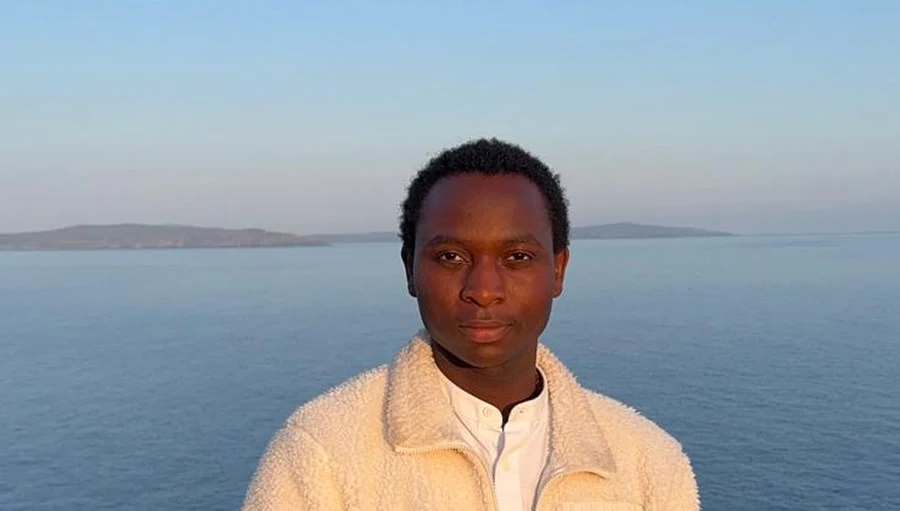
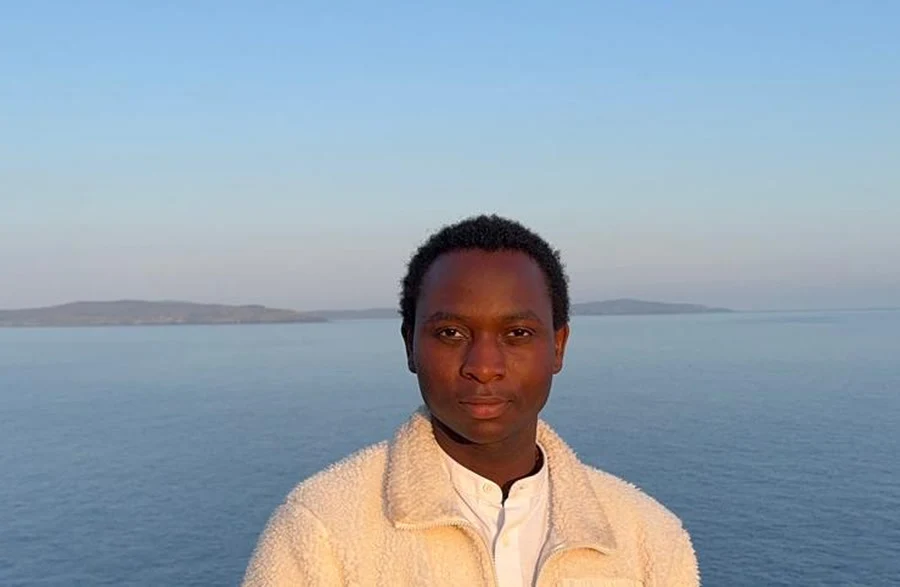
Enlarge mobile View Menu and add hero headroom
Make the menu icon ~15% larger with brighter label text, and uncrop the mobile photo upward so the face sits lower with more sky above and no grass.

Changed region(s): [[0.0, 0.2642, 1.0, 0.9687], [0.7156, 0.5284, 0.7467, 0.5577]]

diff --git a/src/components/site/Nav.tsx b/src/components/site/Nav.tsx
@@ -224,17 +224,21 @@ export function Nav({ overHero = false }: NavProps) {
             aria-label={open ? "Close menu" : "Open menu"}
             aria-expanded={open}
             aria-controls="mobile-nav-menu"
-            className="relative z-[110] -mr-1 inline-flex min-h-10 min-w-10 flex-col items-center justify-center gap-0.5 rounded-xl px-1.5 py-1 text-white transition hover:bg-[#7ec8e3]/10 active:bg-[#7ec8e3]/15"
+            className="relative z-[110] -mr-1 inline-flex min-h-11 min-w-11 flex-col items-center justify-center gap-0.5 rounded-xl px-1.5 py-1 text-white transition hover:bg-[#7ec8e3]/10 active:bg-[#7ec8e3]/15"
             onClick={(e) => {
               e.preventDefault();
               e.stopPropagation();
               setOpen((v) => !v);
             }}
           >
-            <span className="pointer-events-none inline-flex items-center justify-center rounded-full border border-[#7ec8e3]/40 bg-[#7ec8e3]/10 p-1.5 shadow-[0_0_18px_-2px_rgba(126,200,227,0.6)]">
-              {open ? <X className="h-4 w-4" aria-hidden /> : <Menu className="h-4 w-4" aria-hidden />}
+            <span className="pointer-events-none inline-flex items-center justify-center rounded-full border border-[#7ec8e3]/55 bg-[#7ec8e3]/15 p-2 shadow-[0_0_18px_-2px_rgba(126,200,227,0.6)]">
+              {open ? (
+                <X className="h-[18px] w-[18px]" aria-hidden />
+              ) : (
+                <Menu className="h-[18px] w-[18px]" aria-hidden />
+              )}
             </span>
-            <span className="pointer-events-none text-[8px] uppercase tracking-[0.16em] text-[#b8d4e8]/80">
+            <span className="pointer-events-none text-[9px] font-medium uppercase tracking-[0.16em] text-white">
               {open ? "Close" : "View Menu"}
             </span>
           </button>

diff --git a/src/components/pages/IndexPage.tsx b/src/components/pages/IndexPage.tsx
@@ -110,11 +110,11 @@ function Hero() {
   return (
     <section className="relative isolate w-full overflow-hidden bg-[#0a1628] md:h-[100dvh]">
       {/* One photograph — stacked crop on mobile, full-bleed cover on desktop */}
-      <div className="relative h-[44vh] w-full overflow-hidden md:absolute md:inset-0 md:h-full">
+      <div className="relative h-[50vh] w-full overflow-hidden md:absolute md:inset-0 md:h-full">
         <HeroPhoto
           priority
           sizes="100vw"
-          className="absolute inset-0 h-full w-full object-cover object-center md:-translate-x-[15%] md:origin-left md:scale-[1.15] md:object-[left_85%]"
+          className="absolute inset-0 h-full w-full object-cover object-[center_58%] md:-translate-x-[15%] md:origin-left md:scale-[1.15] md:object-[left_85%]"
         />
       </div>
 
